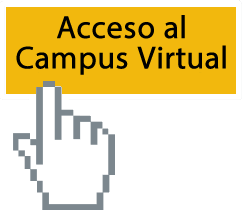
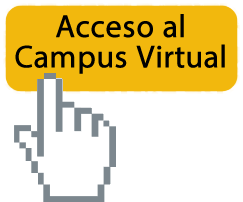
sitio web
cambios realizados por sugernecia del ingeniero 14/9/16

Changed region(s): [[0.0, 0.0, 0.9835, 1.0]]

diff --git a/index.html b/index.html
@@ -12,10 +12,11 @@
         <link rel="stylesheet" href="css/style.css">
         <style type="text/css">
             #apDiv1 {
-            position: absolute;
-            width: 1000px;
-            height: 118px;
-            z-index: 1;
+	position: absolute;
+	width: 1000px;
+	height: 118px;
+	z-index: 1;
+	border-radius: 10px 10px 0px 0px;
             }
             #apDiv2 {
 	position: absolute;
@@ -142,15 +143,16 @@ div {
 	height: 41px;
 	z-index: 2;
 	left: 35px;
-	top: 906px;
+	top: 916px;
 }
         #apDiv14 {
 	position: absolute;
 	width: 98px;
 	height: 68px;
 	z-index: 3;
-	left: 590px;
-	top: 128px;
+	left: 546px;
+	top: 12px;
+	border-radius: 0px 0px 0px 0px;
 }
         #apDiv15 {
 	position: absolute;
@@ -187,6 +189,22 @@ div {
 	left: 729px;
 	top: 697px;
 }
+        #apDiv19 {
+	position: absolute;
+	width: 138px;
+	height: 43px;
+	z-index: 8;
+	left: 568px;
+	top: 130px;
+}
+        #apDiv20 {
+	position: absolute;
+	width: 39px;
+	height: 18px;
+	z-index: 9;
+	left: 523px;
+	top: 131px;
+}
         </style>
     </head>
     <body>	
@@ -198,16 +216,17 @@ div {
             </header>
             <p>&nbsp;</p>
             <p>&nbsp;</p>
-            <nav>
+    <nav>
               <ul class="menu">
-                <li><a href="index.html" class="menu">INICIO</a></li>
-                <li><a href="lecturas.html" class="menu">LECTURAS</a></li>
-                <li><a href="multimedia.html" class="menu">MULTIMEDIA</a></li>
-                <li><a href="actividades" class="menu">ACTIVIDADES</a></li>
-                <li><a href="autores" class="menu">AUTORES</a></li>
-                <div id="apDiv4"><a id="l1" target="_blank" rel="nofollow" href="https://www.facebook.com/Universidad-Nacional-Abierta-y-a-Distancia-UNAD-285790428108305/"><img title="Facebook" 				border="0" src="img/facebook_aqu_32.png" alt="Facebook" /></a><a href="https://www.youtube.com/user/universidadunad" target="_blank"><img title="Twitter" border="0" src=			 "img/youtube.png" alt="Twitter" /></a><span class="nsb_container"><a href="https://twitter.com/universidadunad?lang=es" target="_blank"><img title="Twitter" border="0" src=			 "img/twitter_aqu_32.png" alt="Twitter" /></a></span></div>
+                <li><a href="index.html" class="menu">Inicio</a></li>
+                <li><a href="lecturas.html" class="menu">Lecturas</a></li>
+                <li><a href="multimedia.html" class="menu">Multimedia</a></li>
+                <li><a href="actividades" class="menu">Actividades</a></li>
+                <li><a href="autores" class="menu">Autores</a></li>
+                <div id="apDiv19"><center><a href="http://www.cerotec.net/estadisticas-81963/ferjaher.github.io" title="Contador de visitas gratis"><img src="http://www.cerotec.net/contador.php?t=1&s=3&i=81963" alt="Contador de visitas y estadísticas"></a> </center></div>
+                <div id="apDiv4"><a id="l1" target="_blank" rel="nofollow" href="https://www.facebook.com/Universidad-Nacional-Abierta-y-a-Distancia-UNAD-285790428108305/"><img title="Facebook" 				border="0" src="img/facebook_aqu_32.png" alt="Facebook" /></a><a href="https://www.youtube.com/user/universidadunad" target="_blank"><img title="Twitter" border="0" src=			 "img/youtube.png" alt="Youtube" /></a><span class="nsb_container"><a href="https://twitter.com/universidadunad?lang=es" target="_blank"><img src=			 "img/twitter_aqu_32.png" alt="Twitter" class="menu" title="Twitter" border="0" /></a></span></div>
                  <div id="apDiv3">    
-                   	 <form method="get" action="http://www.google.es/search">
+               	   <form method="get" action="http://www.google.es/search">
         <input type="hidden" name="ie" value="UTF-8" />
         <input type="hidden" name="oe" value="UTF-8" />
         <input type="text" id="s" name="q" value="" size="10" />
@@ -218,25 +237,26 @@ div {
         <input type="radio" name="sitesearch" value="" />
         <font color="white"> Internet</font>
         <input type="radio" name="sitesearch" value="https://estudios.unad.edu.co/ingenieria-de-sistemas" checked="checked" />
-        <font color="white"> ICBTI </font>
-      </form>
+        <font color="white"> ECBTI </font>
+                   </form>
                 </div>
               </ul>
-            </nav>
-            <div id="apDiv14"><a href="http://campus.unad.edu.co/" target="_blank"><img src="img/campus.png" width="86" height="67"></a></div>
-            <section>
-              <h2>Diseño de Sitios Web - UNAD ECBTI</h2>
+    </nav>
+            <div id="apDiv14"><a href="https://campus0a.unad.edu.co/campus0/login/index.php" target="_blank"><img src="img/campus.png" width="116" height="101"></a></div>
+    <section>
+      <h2>Diseño de Sitios Web - UNAD ECBTI</h2>
+      <div id="apDiv20"><a href="https://informacion.unad.edu.co/correo" target="_blank"><img src="img/rss_aqu_32.png" alt="Correo Institucional" class="menu" title="Facebook" 				border="0" /></a></div>
                 <article>
                     <figure>
                         <img src="img/diseno_web.jpg" alt="Computador Portatil">
-                    </figure>
+                  </figure>
                     <p>
                         Propósitos del curso:<br>
                         • Que el estudiante se fundamente teóricamente sobre las generalidades básicas del Diseño Web.<br>
                         • Que el estudiante pueda utilizar de forma correcta los lenguajes HTML5 y CSS3 para aplicarlos en la solución de problemas de construcción de Sitios Web.<br>
                         • Que el estudiante implemente servicios y sitios web a través de los sistemas gestores de contenidos CMS y LMS libres más usados en la actualidad.<br>
                     </p>
-                </article>
+      </article>
     </section>
     <aside> 
                 <div id="apDiv5">
@@ -258,7 +278,7 @@ div {
       </div>
       <div id="apDiv8"><a href=	"https://www.google.com.co/maps/place/Universidad+Nacional+Abierta+y+a+Distancia/@4.8264601,-75.6808173,15.25z/data=!4m12!1m6!3m5!1s0x8e3880d6fbfe8c37:0x6bd2913427c21efc!2sUniversidad+Nacional+Abierta+y+a+Distancia!8m2!3d4.8297048!4d-75.6707244!3m4!1s0x8e3880d6fbfe8c37:0x6bd2913427c21efc!8m2!3d4.8297048!4d-75.6707244" target="_blank"><img src="img/ubicacion.jpg" width="259" height="200"></a></div>
               <div id="apDiv15"></div>
-              <div id="apDiv16">Nuestra Escuela CBTI</div>
+              <div id="apDiv16">Nuestra ECBTI</div>
               <div id="apDiv18"><iframe width="260" height="180" src="https://www.youtube.com/embed/Z-rfSPH3ZQA" frameborder="0" allowfullscreen></iframe></div>
     </aside>
     

diff --git a/css/normalize.css b/css/normalize.css
@@ -187,7 +187,8 @@ sub {
  */
 
 img {
-  border: 0;
+	border: 0;
+	border-radius: 10px 10px 0px 0px;
 }
 
 /**
